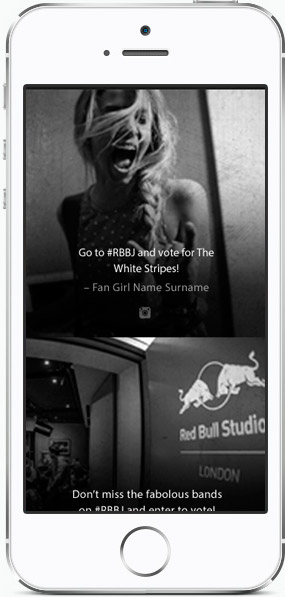
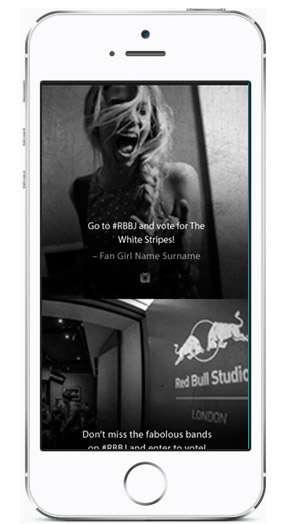
new images on rbbj, small fines

diff --git a/works/redbull.html b/works/redbull.html
@@ -41,7 +41,7 @@
 			<div class="heroContent-project">
 				<p class="project-type-thumb-title">Website | Campaign</p>
 				<h1 class="mainHeader header-project"> Red Bull Bedroom&nbspJam</h1>
-				<p id="main-subtitle">Digital platform and campaign contest for young bands.</p>
+				<p id="main-subtitle">Digital platform and campaign contest for young&nbspbands.</p>
 			</div>
 			<a href="../index.html" class="back">Back to Home</a>
 		</div>
@@ -51,19 +51,17 @@
 		<div class="section">
 			<div class="section-wrapper detail-section">
 				<div class="detail-wrapper">
-					<p class="scroll-animation description p2 text-section">Lorem ipsum dolor sit amet, consectetur adipiscing elit, sed do eiusmod tempor incididunt ut labore et dolore magna aliqua. Ut enim ad minim veniam, quis nostrud exercitation ullamco laboris nisi ut aliquip ex ea commodo consequat.</p>
+					<p class="scroll-animation description p2 text-section">Red Bull needed to evolve its platform 'Bedroom Jam' to a whole new level. This time the platform require an international launching and a complete new design and UI in order to fulfill the needs of the younger users worldwide and unroll the site to a multi-device and responsive&nbspsolution.</p>
 
 					<img alt="Red Bull Bedroom Jam | Digital platform and campaign contest for young bands" src="../img/red-bull-bedroom-jam-0.jpg" class="image-detail">
 
-					<p class="scroll-animation description p2 text-section">Lorem ipsum dolor sit amet, consectetur adipiscing elit, sed do eiusmod tempor incididunt ut labore et dolore magna aliqua.</p>
+					<p class="scroll-animation description p2 text-section">The new strategy was to make both, bands and fans, the center of the action within the platform. Bands needed to 'make noise' in social media, while fans could get rewarded for supporting the bands back.</p>
 
 					<img alt="Red Bull Bedroom Jam | Digital platform and campaign contest for young bands" src="../img/red-bull-bedroom-jam-predictive-search.gif" class="image-detail">
 
-					<p class="scroll-animation description p2 text-section">Lorem ipsum dolor sit amet, consectetur adipiscing elit, sed do eiusmod tempor incididunt ut labore et dolore magna aliqua. Ut enim ad minim veniam, quis nostrud exercitation ullamco laboris nisi ut aliquip ex ea commodo consequat.</p>
-
 					<img alt="Red Bull Bedroom Jam | Digital platform and campaign contest for young bands" src="../img/red-bull-bedroom-jam-1.jpg" class="image-detail">
 
-					<p class="scroll-animation description p2 text-section">Lorem ipsum dolor sit amet, consectetur adipiscing elit, sed do eiusmod tempor incididunt ut labore et dolore magna aliqua. Ut enim ad minim veniam, quis nostrud exercitation ullamco laboris nisi ut aliquip ex ea commodo consequat.</p>
+					<p class="scroll-animation description p2 text-section">Mobile first approach, functionalities 'on demand', off-canvas navigation, parallax scrolling and a powerful predictive search were the key functionalities to make the user experience optimised and produce a clean modern look and feel.</p>
 
 					<div>
 						<img alt="Red Bull Bedroom Jam | Digital platform and campaign contest for young bands" src="../img/red-bull-bedroom-jam-mob-1.jpg" class="image-detail image-mobile-wrapper image-mobile-3col">
@@ -71,11 +69,20 @@
 						<img alt="Red Bull Bedroom Jam | Digital platform and campaign contest for young bands" src="../img/red-bull-bedroom-jam-mob-3.jpg" class="image-detail image-mobile-wrapper image-mobile-3col">
 					</div>
 
-					<p class="scroll-animation description p2 text-section">Lorem ipsum dolor sit amet, consectetur adipiscing elit, sed do eiusmod tempor incididunt ut labore et dolore magna aliqua. Ut enim ad minim veniam, quis nostrud exercitation ullamco laboris nisi ut aliquip ex ea commodo consequat.</p>
+					<p class="scroll-animation description p2 text-section">With rollouts in Belgium, Greece and more to come, Red Bull Bedroom Jam is ready to take the world by storm and help new bands rise above the static.</p>
 
 					<div class="vimeo-container">
 						<iframe src="https://player.vimeo.com/video/86690202?color=f20f52&title=0&byline=0&portrait=0" width="1200" height="674" frameborder="0" webkitallowfullscreen mozallowfullscreen allowfullscreen></iframe>
 
+					</div>
+
+					<div class="team-section">
+						<h4 class="team-title">Team</h4>
+						<p class="team-description">Damon Mangos, Tom Dougherty, Stephen Horner, Ferran Gimeno, David Vale<br/>
+						2014/2015</p>
+						<h4 class="team-title">Role</h4>
+						<p class="team-description">Design, UI, User Experience, Prototyping</p>
+						
 					</div>
 
 				</div>

diff --git a/style/styles.css b/style/styles.css
@@ -77,6 +77,30 @@ h3 {
   margin: 0 auto;
   /*color: @white;*/
 }
+h4 {
+  font-family: 'Playfair Display', Georgia, serif;
+  font-size: 21px;
+  font-weight: 700;
+  font-style: normal;
+  line-height: 1.5em;
+  -webkit-font-smoothing: antialiased;
+  -moz-osx-font-smoothing: grayscale;
+  text-rendering: optimizeLegibility;
+  margin: 0 auto;
+  color: #ffffff;
+}
+.h4 {
+  font-family: 'Playfair Display', Georgia, serif;
+  font-size: 21px;
+  font-weight: 700;
+  font-style: normal;
+  line-height: 1.5em;
+  -webkit-font-smoothing: antialiased;
+  -moz-osx-font-smoothing: grayscale;
+  text-rendering: optimizeLegibility;
+  margin: 0 auto;
+  color: #ffffff;
+}
 p {
   font-family: 'Roboto Condensed', sans-serif;
   font-size: 16px;
@@ -4016,6 +4040,9 @@ a {
   .social-wrapper {
     padding: 30px 0 0px;
   }
+  .social-section {
+    padding: 60px 0;
+  }
 }
 .social-link-home {
   /*width: 25%;*/
@@ -4207,6 +4234,11 @@ footer {
   z-index: 2;
   opacity: .2;
 }
+@media (max-width: 400px) {
+  #hero-rbbj-bg {
+    background-position: left;
+  }
+}
 .detail-wrapper {
   position: relative;
   width: 60%;
@@ -4356,4 +4388,26 @@ footer {
   left: 0;
   width: 100%;
   height: 100%;
+}
+.team-section {
+  display: block;
+  position: relative;
+  margin: 0 auto;
+  width: 100%;
+  /*height: 10em;*/
+  /*background-color: @bg1;*/
+  border-top: 1px solid #e1e1e1;
+}
+.team-section .team-title {
+  text-align: center;
+  vertical-align: middle;
+  color: #b3b9bf;
+  padding-top: 2em;
+}
+.team-section .team-description {
+  text-align: center;
+  vertical-align: middle;
+  color: #b3b9bf;
+  line-height: 1.5em;
+  padding-top: 5px;
 }

diff --git a/style/styles.less b/style/styles.less
@@ -470,6 +470,7 @@ a {
 
 @media (max-width: 400px){
 	.social-wrapper {padding: 30px 0 0px;}
+	.social-section {padding: 60px 0;}
 }
 
 .social-link-home {
@@ -674,6 +675,12 @@ footer {
 	opacity: .2;
 }
 
+@media (max-width: 400px) {
+	#hero-rbbj-bg {
+		background-position: left;
+	}
+}
+
 .detail-wrapper {
 	position: relative;
 	width: 60%;
@@ -835,4 +842,35 @@ footer {
 		height: 100%;
 	}
 }
+
+.team-section{
+	display: block;
+	position: relative;
+	margin: 0 auto;
+
+	width: 100%;
+	/*height: 10em;*/
+
+	/*background-color: @bg1;*/
+
+	border-top: 1px solid @bg1; 
+
+	.team-title {
+		text-align: center; 
+		vertical-align: middle; 
+		color: @font-grey;
+
+		padding-top: 2em;
+	}
+
+	.team-description {
+		text-align: center; 
+		vertical-align: middle; 
+		color: @font-grey;
+		line-height: 1.5em;
+
+		padding-top: 5px;
+	}
+}
+
 

diff --git a/style/fonts.css b/style/fonts.css
@@ -74,6 +74,30 @@ h3 {
   margin: 0 auto;
   /*color: @white;*/
 }
+h4 {
+  font-family: 'Playfair Display', Georgia, serif;
+  font-size: 21px;
+  font-weight: 700;
+  font-style: normal;
+  line-height: 1.5em;
+  -webkit-font-smoothing: antialiased;
+  -moz-osx-font-smoothing: grayscale;
+  text-rendering: optimizeLegibility;
+  margin: 0 auto;
+  color: #ffffff;
+}
+.h4 {
+  font-family: 'Playfair Display', Georgia, serif;
+  font-size: 21px;
+  font-weight: 700;
+  font-style: normal;
+  line-height: 1.5em;
+  -webkit-font-smoothing: antialiased;
+  -moz-osx-font-smoothing: grayscale;
+  text-rendering: optimizeLegibility;
+  margin: 0 auto;
+  color: #ffffff;
+}
 p {
   font-family: 'Roboto Condensed', sans-serif;
   font-size: 16px;

diff --git a/style/fonts.less b/style/fonts.less
@@ -71,6 +71,24 @@ h3 {
     /*color: @white;*/
 }
 
+h4 {
+	.h4
+}
+
+.h4 {
+	font-family: @Playfair;
+	font-size: 21px;
+	font-weight: 700;
+	font-style: normal;
+	line-height: 1.5em;
+	// letter-spacing: -0.03em; 
+	-webkit-font-smoothing: antialiased;
+    -moz-osx-font-smoothing: grayscale;
+    text-rendering: optimizeLegibility;
+    margin: 0 auto;
+    color: @white;
+}
+
 p {
 	font-family: 'Roboto Condensed', sans-serif;
 	font-size: 16px;

diff --git a/style/colours.less b/style/colours.less
@@ -1,7 +1,7 @@
 /*Main general colour styles*/
 
 
-@mainColour: #1F2021; /*Dark grey background*/
+@mainColour: #1F2021; /*Dark grey background*/ 
 @secondaryColour: darken(@mainColour, 10%);
 @thirdColour: lighten(@mainColour, 10%);
 @mainBtnColour: #177bf6;
